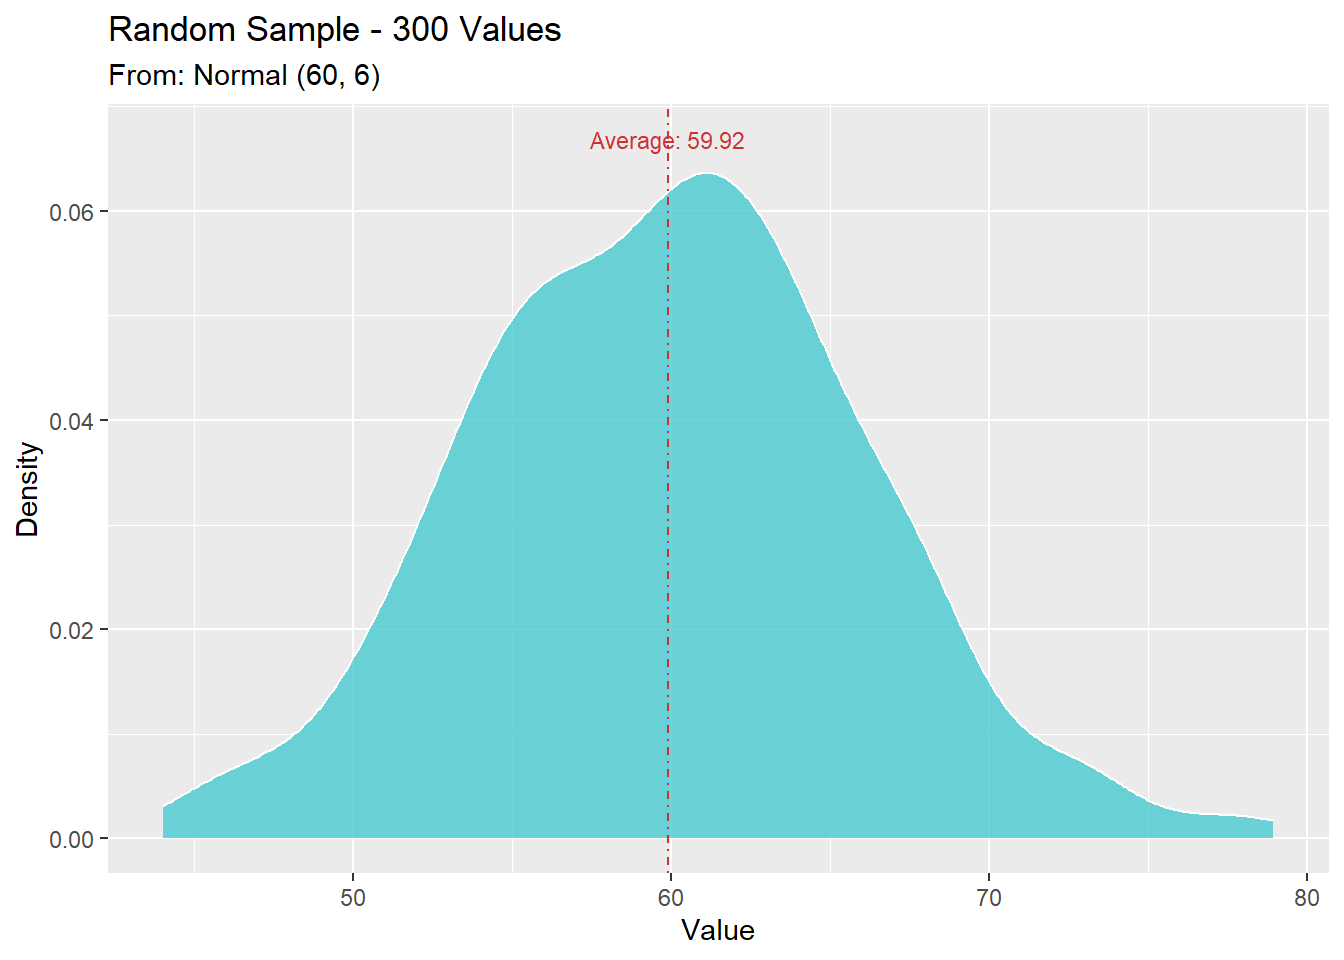
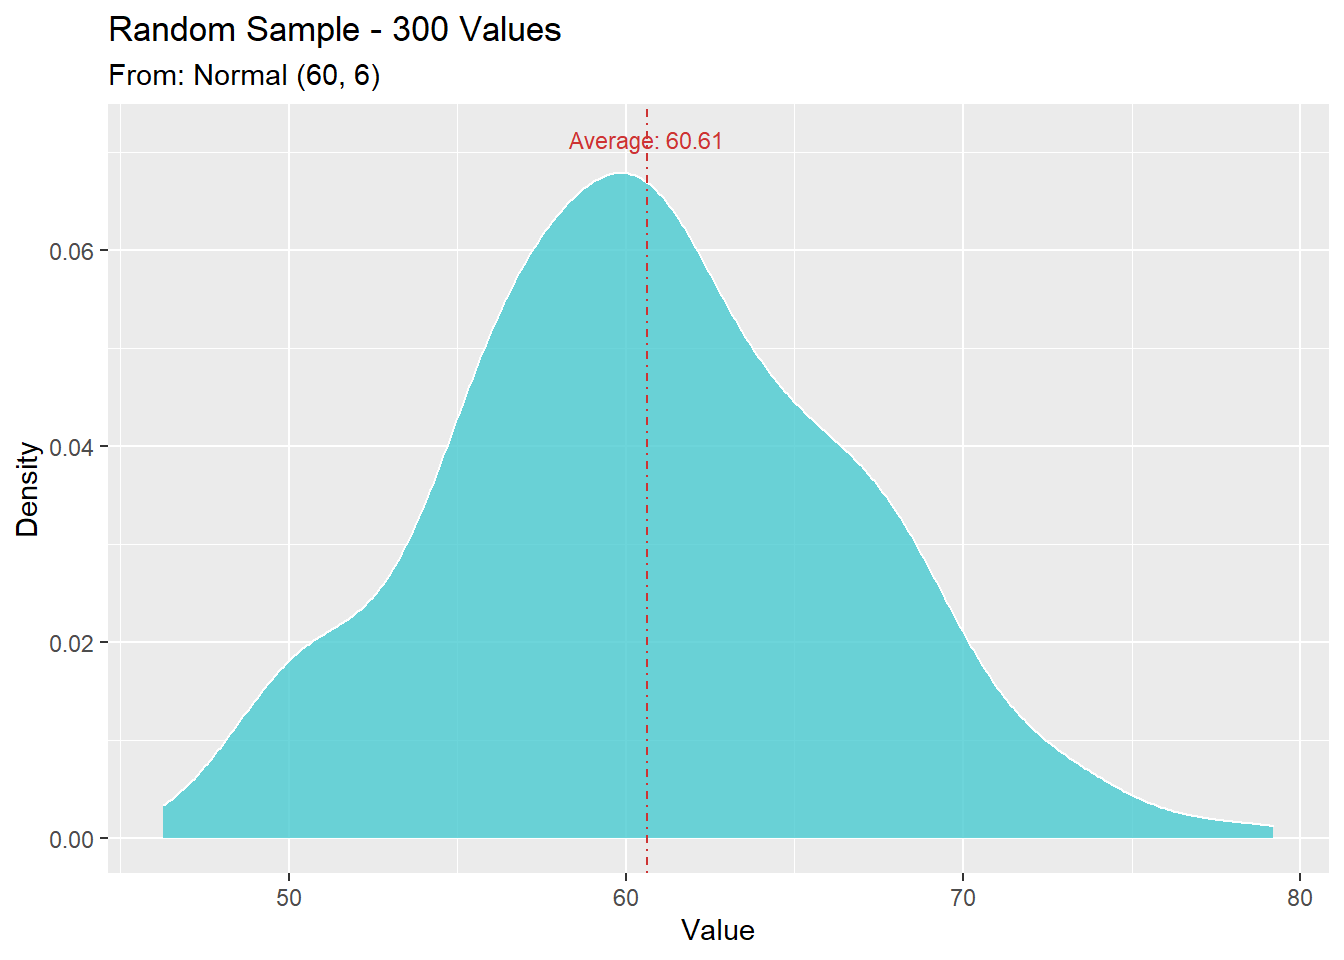
normal dist 3

diff --git a/משתנים-מקריים-והתפלגויות.html b/משתנים-מקריים-והתפלגויות.html
@@ -250,7 +250,7 @@ code span.wa { color: #60a0b0; font-weight: bold; font-style: italic; } /* Warni
 <p>דוגמה: נדגום 10 פעמים מתוך התפלגות גיאומטרית עם סיכוי 1/6 להצלחה.
 כמה כשלונות לפני ההצלחה הראשונה יהיו בכל אחד מהמקרים?</p>
 <div class="sourceCode" id="cb2"><pre class="sourceCode r"><code class="sourceCode r"><span id="cb2-1"><a href="משתנים-מקריים-והתפלגויות.html#cb2-1" aria-hidden="true" tabindex="-1"></a><span class="fu">rgeom</span>(<span class="at">n=</span><span class="dv">10</span>, <span class="at">prob=</span><span class="dv">1</span><span class="sc">/</span><span class="dv">6</span>)</span></code></pre></div>
-<pre><code>##  [1]  2  5  0  0 16  3  1  5  7  3</code></pre>
+<pre><code>##  [1] 17  2 16  2 13  4 11  4  5  7</code></pre>
 <h3>
 מציאת הסתברות ספציפית
 </h3>
@@ -298,7 +298,7 @@ code span.wa { color: #60a0b0; font-weight: bold; font-style: italic; } /* Warni
 <p>דוגמה: נדגום 5 פעמים מתוך התפלגות בינומית הכוללת 10 ניסויי ברנולי עם הסתברות 1/3 להצלחה.
 כמה הצלחות יהיו בכל אחד מהמקרים?</p>
 <div class="sourceCode" id="cb13"><pre class="sourceCode r"><code class="sourceCode r"><span id="cb13-1"><a href="משתנים-מקריים-והתפלגויות.html#cb13-1" aria-hidden="true" tabindex="-1"></a><span class="fu">rbinom</span>(<span class="at">n=</span><span class="dv">5</span>, <span class="at">size=</span><span class="dv">10</span>, <span class="at">prob=</span><span class="dv">1</span><span class="sc">/</span><span class="dv">3</span>)</span></code></pre></div>
-<pre><code>## [1] 1 2 5 3 3</code></pre>
+<pre><code>## [1] 3 5 4 3 1</code></pre>
 <h3>
 מציאת הסתברות ספציפית
 </h3>
@@ -354,10 +354,10 @@ code span.wa { color: #60a0b0; font-weight: bold; font-style: italic; } /* Warni
 <span id="cb24-5"><a href="משתנים-מקריים-והתפלגויות.html#cb24-5" aria-hidden="true" tabindex="-1"></a>norm_sample <span class="ot">&lt;-</span> <span class="fu">rnorm</span>(<span class="at">n=</span>n, <span class="at">mean=</span>mean, <span class="at">sd=</span>sd)</span>
 <span id="cb24-6"><a href="משתנים-מקריים-והתפלגויות.html#cb24-6" aria-hidden="true" tabindex="-1"></a><span class="co"># print the first 20 items</span></span>
 <span id="cb24-7"><a href="משתנים-מקריים-והתפלגויות.html#cb24-7" aria-hidden="true" tabindex="-1"></a><span class="fu">print</span>(norm_sample[<span class="dv">0</span><span class="sc">:</span><span class="dv">20</span>])</span></code></pre></div>
-<pre><code>##  [1] 55.89810 60.15726 61.02818 56.38433 52.84563 57.93421 56.19803 61.23402
-##  [9] 68.79106 59.08618 63.42566 64.48377 64.86938 57.02037 61.36271 63.98880
-## [17] 61.44136 59.74373 60.49202 67.99401</code></pre>
-<p><em>שימו לב שממוצע ההתפלגות לא יהיה 60, אלא רק קרוב ל60, התוחלת הנורמלית התיאורטית מייצגת אין סוף ערכים, בעוד שאנחנו דגמנו דגימה מקרית עם מספר סופי של ערכים.</em> <br>
+<pre><code>##  [1] 66.05148 62.23056 61.94901 66.72707 68.95506 62.83479 62.53268 74.67571
+##  [9] 54.12863 77.29504 73.13839 59.34523 60.82832 73.78324 51.64272 57.80212
+## [17] 61.68336 59.85446 71.76105 66.68872</code></pre>
+<p><em>שימו לב שממוצע ההתפלגות לא יהיה 60, אלא רק קרוב ל60, ההתפלגות הנורמלית התיאורטית מייצגת אין סוף ערכים, בעוד שאנחנו דגמנו דגימה מקרית עם מספר סופי של ערכים.</em> <br>
 <em>גם סטיית התקן של המדגם תהיה קרובה ל-6 ולא זהה ל-6. בדיוק מאותה סיבה.</em></p>
 <p><img src="R-Tutorials_files/figure-html/unnamed-chunk-20-1.png" width="672" style="display: block; margin: auto auto auto 0;" /></p>
 <h3>
